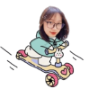
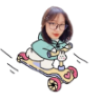
11/05

diff --git a/index.html b/index.html
@@ -13,8 +13,8 @@
 <div class="container">
 
     <div class="music-player">
-        <img src="TLINH.png" class="new-image" style="top: 500px; left: 30px">
-        <img src="TLINH.png" class="new-image" style="top: 500px; right: 20px;">
+        <img src="TLINH.png" class="new-image" style="top: 510px; left: 30px">
+        <img src="TLINH.png" class="new-image" style="top: 510px; right: 20px;">
 
         <nav>
             <div class="circle">
